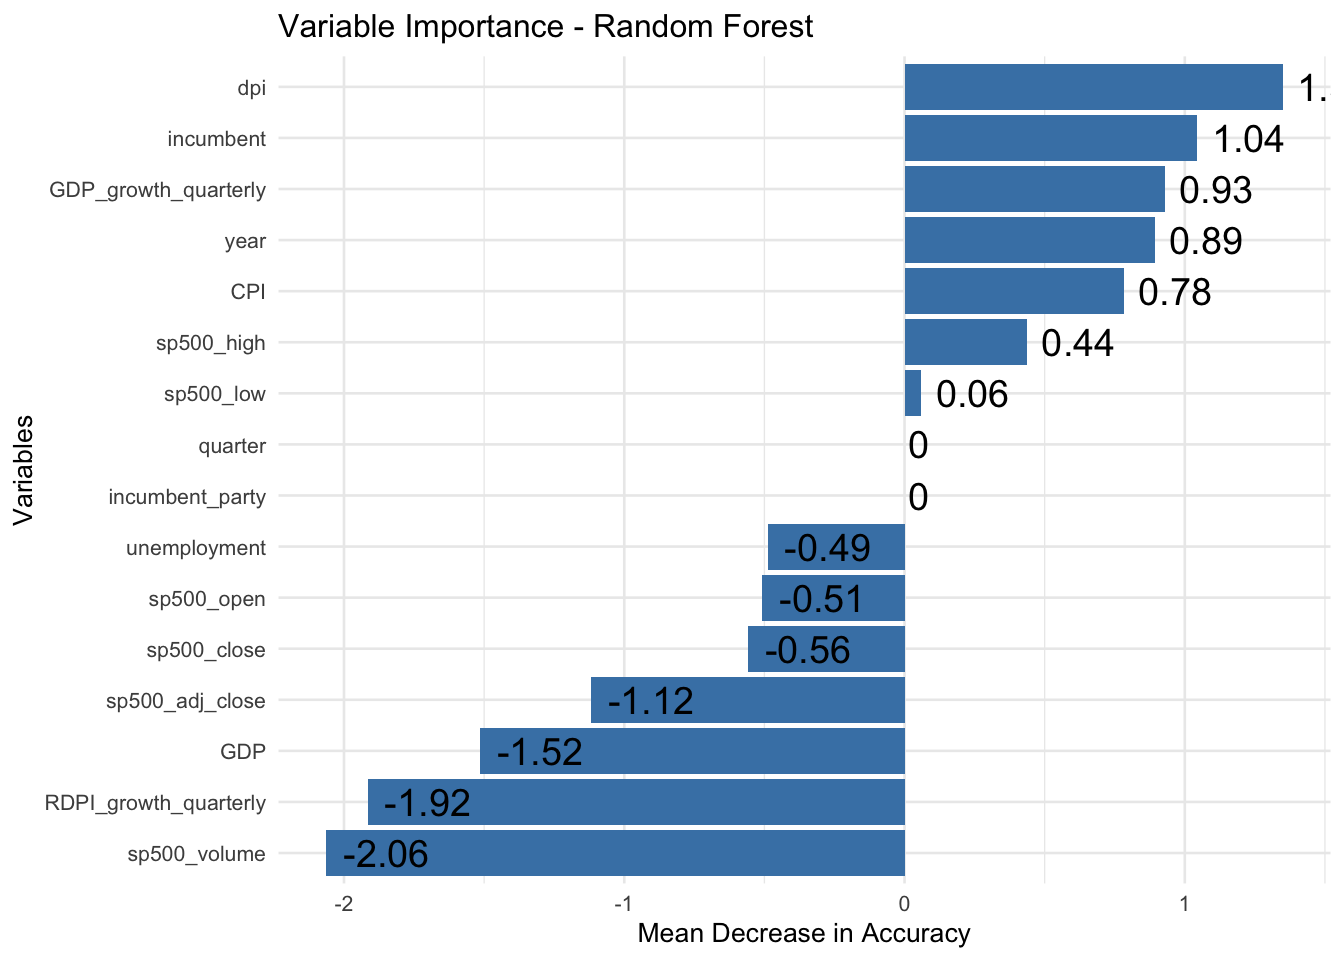
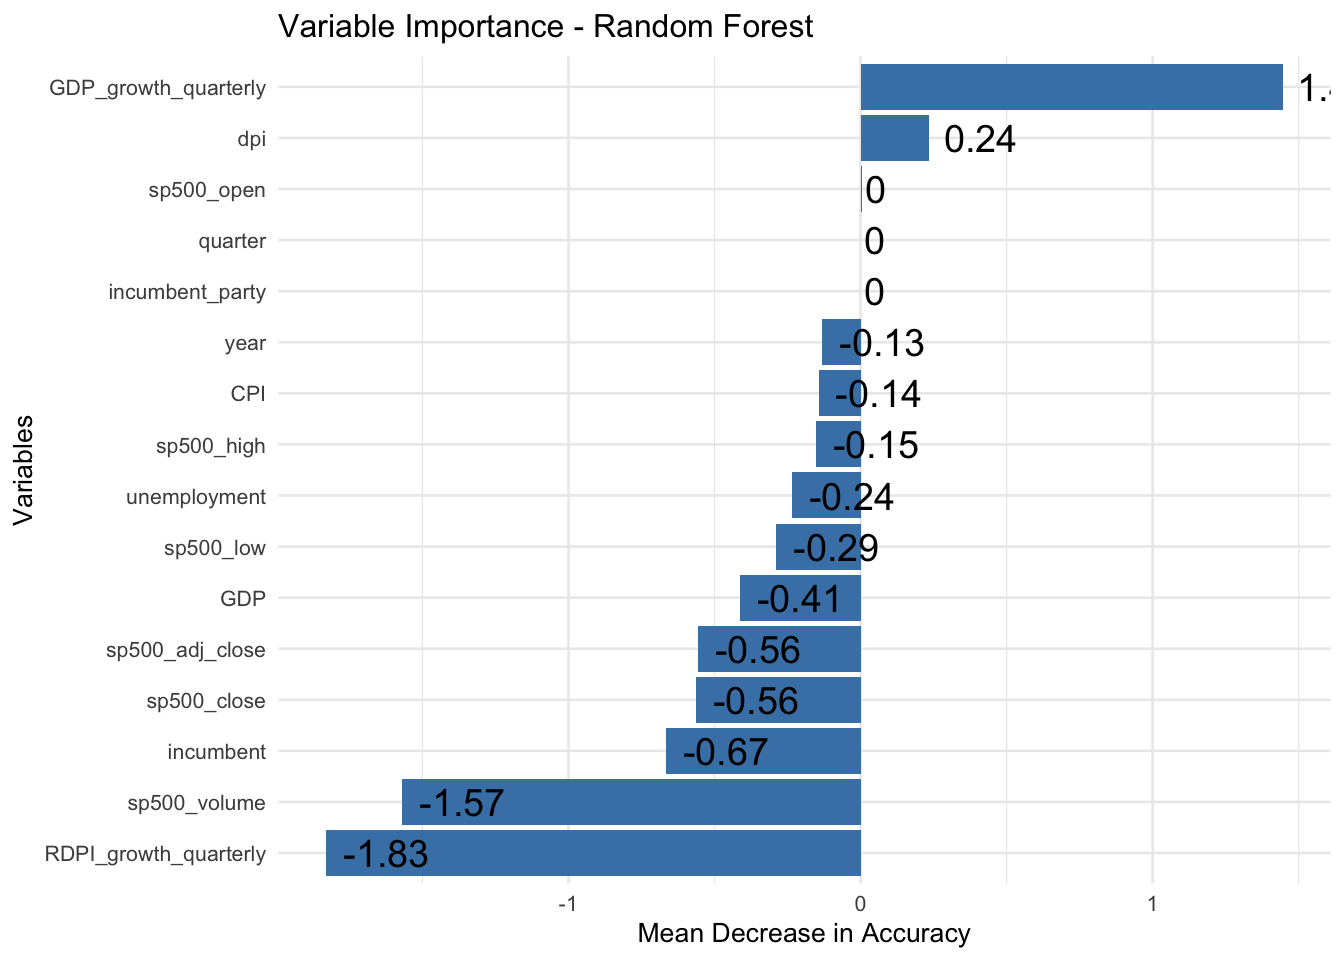
mathjax

diff --git a/public/post/2024/09/11/week-2/index.html b/public/post/2024/09/11/week-2/index.html
@@ -29,14 +29,14 @@
 <p>The code for this page can be found <a href="https://github.com/jeqcho/usa-2024-election-prediction/blob/main/content/post/2024-09-11-week-2/index.Rmd">here</a>.</p>
 <p>One measure of the economy is the GDP growth. But do voters care more about the short-term GDP growth in the months leading up to the election, or do they judge the candidate based on the GDP growth <strong>throughout</strong> their term? We first investigate the Q2 GDP growth, which is by how much did the GDP grow in the second quarter (April, May, June) in the year of the election.</p>
 <img src="/usa-2024-election-prediction/post/2024/09/11/week-2/index_files/figure-html/unnamed-chunk-2-1.png" width="672" />
-<p>In our best-fit lines above, we have removed 2020 as an outlier. The plot shows that there is a strong positive correlation between second quarter GDP growth and the incumbent&rsquo;s party vote share, particularly so when the candidate is also incumbent! This is fair, since the voters might not judge a new non-incumbent candidate with the current economy. Another interesting feature is that the best-fit line almost cross the center of 50% vote share for 0% growth. This suggests that the voters only reward the incumbent with more votes if the economy grows, and punishes when not, with no established baseline that the president is expected to perform. Let&rsquo;s look at the <code>\(R^2\)</code> to get an idea of how powerful is the prediction. Here&rsquo;s the <code>\(R^2\)</code> for non-incumbent candidates.</p>
+<p>In our best-fit lines above, we have removed 2020 as an outlier. The plot shows that there is a strong positive correlation between second quarter GDP growth and the incumbent&rsquo;s party vote share, particularly so when the candidate is also incumbent! This is fair, since the voters might not judge a new non-incumbent candidate with the current economy. Another interesting feature is that the best-fit line almost cross the center of 50% vote share for 0% growth. This suggests that the voters only reward the incumbent with more votes if the economy grows, and punishes when not, with no established baseline that the president is expected to perform. Let&rsquo;s look at the \(R^2\) to get an idea of how powerful is the prediction. Here&rsquo;s the \(R^2\) for non-incumbent candidates.</p>
 <pre><code class="language-r">summary(lm(pv2p~GDP_growth_quarterly,
            data=(d_inc_econ|&gt;filter(incumbent==FALSE))
            ))$r.squared
 </code></pre>
 <pre><code>## [1] 0.1142466
 </code></pre>
-<p>Here&rsquo;s the <code>\(R^2\)</code> for incumbent candidates.</p>
+<p>Here&rsquo;s the \(R^2\) for incumbent candidates.</p>
 <pre><code class="language-r">summary(lm(pv2p~GDP_growth_quarterly,
            data=(d_inc_econ|&gt;filter(incumbent==TRUE, year!=2020))
            ))$r.squared
@@ -44,17 +44,15 @@
 <pre><code>## [1] 0.4373633
 </code></pre>
 <p>It turns out that second quarter GDP growth can explain up to 44% of the change in vote shares across time! Now, how about long term GDP growth? Instead of looking at the GDP growth during the election year, let&rsquo;s compare the GDP growth from the start of their term to the end of the term.</p>
-<pre><code>## `geom_smooth()` using formula = 'y ~ x'
-</code></pre>
 <img src="/usa-2024-election-prediction/post/2024/09/11/week-2/index_files/figure-html/unnamed-chunk-5-1.png" width="672" />
-<p>Here&rsquo;s the <code>\(R^2\)</code> for non-incumbents.</p>
+<p>Here&rsquo;s the \(R^2\) for non-incumbents.</p>
 <pre><code class="language-r">summary(lm(pv2p~GDP_growth_termly,
            data=(d_inc_econ|&gt;filter(incumbent==FALSE))
            ))$r.squared
 </code></pre>
 <pre><code>## [1] 0.01141712
 </code></pre>
-<p>Here&rsquo;s the <code>\(R^2\)</code> for incumbents.</p>
+<p>Here&rsquo;s the \(R^2\) for incumbents.</p>
 <pre><code class="language-r">summary(lm(pv2p~GDP_growth_termly,
            data=(d_inc_econ|&gt;filter(incumbent==TRUE, year!=2020))
            ))$r.squared
@@ -63,17 +61,15 @@
 </code></pre>
 <p>Interestingly, the effect on non-incumbent candidates essentially flattens out. Voters do not judge new candidates based on how well the economy performed over the years. For incumbent candidates, we still see a strong positive correlation, but the explanatory power decreases from 44 to 29. This suggests that the short-term national economy has more influence on elections that the long-term trajectory. Another interesting feature is that the best-fit line crosses the 50% mark when the GDP growth is 29.6%. This means that in contrast to the second-quarter GDP growth, the voters impose a baseline performance for the president to sustain the growth of the economy.</p>
 <p>How about other measures of the economy like unemployment rate? Here we took seasonally-adjusted unemployment rate for each state and see if the vote share of the incumbet party in each state changes in response to the unemployment rate.</p>
-<pre><code>## `geom_smooth()` using formula = 'y ~ x'
-</code></pre>
 <img src="/usa-2024-election-prediction/post/2024/09/11/week-2/index_files/figure-html/unnamed-chunk-8-1.png" width="672" />
-<p>Here&rsquo;s the <code>\(R^2\)</code> for non-incumbents.</p>
+<p>Here&rsquo;s the \(R^2\) for non-incumbents.</p>
 <pre><code class="language-r">summary(lm(pv2p~q2_unrate_growth,
            data=(d_unrate_enc|&gt;filter(incumbent==FALSE))
            ))$r.squared
 </code></pre>
 <pre><code>## [1] 0.003274093
 </code></pre>
-<p>Here&rsquo;s the <code>\(R^2\)</code> for incumbents.</p>
+<p>Here&rsquo;s the \(R^2\) for incumbents.</p>
 <pre><code class="language-r">summary(lm(pv2p~q2_unrate_growth,
            data=(d_unrate_enc|&gt;filter(incumbent==TRUE, year!=2020))
            ))$r.squared
@@ -84,12 +80,14 @@
 <p>Let&rsquo;s put all the economic indicators we have into a machine learning model and see which indicators are most effective in predicting the national vote share. We build a random forest model with 100 trees and look at the importance plot which shows how good each indicator is in predicting vote share.</p>
 <img src="/usa-2024-election-prediction/post/2024/09/11/week-2/index_files/figure-html/unnamed-chunk-15-1.png" width="672" />
 <p>The random forest confirms our hypothesis and crowns the second quarter GDP growth as the strongest economic predictor of the election, followed by the S&amp;P 500 open and the incumbency effect. Let&rsquo;s use these three predictors to predict the next election and check the leave-one-out cross-validation (LOO-CV) error.</p>
-<pre><code>## [1] &quot;LOO-CV Mean Squared Error:  26.0508651010266&quot;
+<pre><code>## [1] &quot;LOO-CV Mean Squared Error:  23.7289823344239&quot;
 </code></pre>
-<pre><code>## [1] &quot;LOO-CV Root Mean Squared Error:  5.10400481005128&quot;
+<pre><code>## [1] &quot;LOO-CV Root Mean Squared Error:  4.87124032813244&quot;
 </code></pre>
 <p>The RMS is 5.05 which can be interpreted as saying that the prediction is usually within 5% of the truth. Let&rsquo;s use this model to predict the current election.</p>
-<pre><code class="language-r">data2024 &lt;- d_fred|&gt;filter(year==2024,quarter==2)
+<pre><code class="language-r">set.seed(1347)
+
+data2024 &lt;- d_fred|&gt;filter(year==2024,quarter==2)
 data2024$incumbent &lt;- FALSE
 
 rf_model &lt;- randomForest(pv2p ~ GDP_growth_quarterly + sp500_open + incumbent, 
@@ -98,19 +96,19 @@ rf_model &lt;- randomForest(pv2p ~ GDP_growth_quarterly + sp500_open + incumbent
 predict(rf_model, data2024)
 </code></pre>
 <pre><code>##        1 
-## 49.53043
+## 49.83405
 </code></pre>
-<p>The model suggests a vote share of 49.5% for Kamala Harris using GDP growth rate, S&amp;P 500 and the fact of non-incumbency. It can be interesting to note that the economic indicators itself are on the fence in this election and not particularly strong. Even if an incumbent runs, the vote share is 50.6%.</p>
+<p>The model suggests a vote share of 49.8% for Kamala Harris using GDP growth rate, S&amp;P 500 and the fact of non-incumbency. It can be interesting to note that the economic indicators itself are on the fence in this election and not particularly strong. Even if an incumbent runs, the vote share is 50.7%.</p>
 <pre><code class="language-r">data2024 &lt;- d_fred|&gt;filter(year==2024,quarter==2)
 data2024$incumbent &lt;- TRUE
 
 rf_model &lt;- randomForest(pv2p ~ GDP_growth_quarterly + sp500_open + incumbent, 
-                           data = d_inc_econ, ntree = 100)
+                           data = d_inc_econ, ntree = 100,)
 
 predict(rf_model, data2024)
 </code></pre>
 <pre><code>##        1 
-## 50.36307
+## 50.71584
 </code></pre>
 <p>Since the economic indicators are not vocal, both Harris and Trump have no edge in terms of the economy.</p>
 

diff --git a/content/post/2024-09-11-week-2/index.md b/content/post/2024-09-11-week-2/index.md
@@ -16,7 +16,7 @@ One measure of the economy is the GDP growth. But do voters care more about the 
 
 <img src="{{< blogdown/postref >}}index_files/figure-html/unnamed-chunk-2-1.png" width="672" />
 
-In our best-fit lines above, we have removed 2020 as an outlier. The plot shows that there is a strong positive correlation between second quarter GDP growth and the incumbent's party vote share, particularly so when the candidate is also incumbent! This is fair, since the voters might not judge a new non-incumbent candidate with the current economy. Another interesting feature is that the best-fit line almost cross the center of 50% vote share for 0% growth. This suggests that the voters only reward the incumbent with more votes if the economy grows, and punishes when not, with no established baseline that the president is expected to perform. Let's look at the `\(R^2\)` to get an idea of how powerful is the prediction. Here's the `\(R^2\)` for non-incumbent candidates.
+In our best-fit lines above, we have removed 2020 as an outlier. The plot shows that there is a strong positive correlation between second quarter GDP growth and the incumbent's party vote share, particularly so when the candidate is also incumbent! This is fair, since the voters might not judge a new non-incumbent candidate with the current economy. Another interesting feature is that the best-fit line almost cross the center of 50% vote share for 0% growth. This suggests that the voters only reward the incumbent with more votes if the economy grows, and punishes when not, with no established baseline that the president is expected to perform. Let's look at the \(R^2\) to get an idea of how powerful is the prediction. Here's the \(R^2\) for non-incumbent candidates.
 
 
 ``` r
@@ -30,7 +30,7 @@ summary(lm(pv2p~GDP_growth_quarterly,
 ```
 
 
-Here's the `\(R^2\)` for incumbent candidates.
+Here's the \(R^2\) for incumbent candidates.
 
 
 ``` r
@@ -46,14 +46,9 @@ summary(lm(pv2p~GDP_growth_quarterly,
 It turns out that second quarter GDP growth can explain up to 44% of the change in vote shares across time! Now, how about long term GDP growth? Instead of looking at the GDP growth during the election year, let's compare the GDP growth from the start of their term to the end of the term.
 
 
-
-```
-## `geom_smooth()` using formula = 'y ~ x'
-```
-
 <img src="{{< blogdown/postref >}}index_files/figure-html/unnamed-chunk-5-1.png" width="672" />
 
-Here's the `\(R^2\)` for non-incumbents.
+Here's the \(R^2\) for non-incumbents.
 
 ``` r
 summary(lm(pv2p~GDP_growth_termly,
@@ -65,7 +60,7 @@ summary(lm(pv2p~GDP_growth_termly,
 ## [1] 0.01141712
 ```
 
-Here's the `\(R^2\)` for incumbents.
+Here's the \(R^2\) for incumbents.
 
 ``` r
 summary(lm(pv2p~GDP_growth_termly,
@@ -81,14 +76,9 @@ Interestingly, the effect on non-incumbent candidates essentially flattens out. 
 
 How about other measures of the economy like unemployment rate? Here we took seasonally-adjusted unemployment rate for each state and see if the vote share of the incumbet party in each state changes in response to the unemployment rate.
 
-
-```
-## `geom_smooth()` using formula = 'y ~ x'
-```
-
 <img src="{{< blogdown/postref >}}index_files/figure-html/unnamed-chunk-8-1.png" width="672" />
 
-Here's the `\(R^2\)` for non-incumbents.
+Here's the \(R^2\) for non-incumbents.
 
 ``` r
 summary(lm(pv2p~q2_unrate_growth,
@@ -100,7 +90,7 @@ summary(lm(pv2p~q2_unrate_growth,
 ## [1] 0.003274093
 ```
 
-Here's the `\(R^2\)` for incumbents.
+Here's the \(R^2\) for incumbents.
 
 ``` r
 summary(lm(pv2p~q2_unrate_growth,
@@ -128,17 +118,19 @@ The random forest confirms our hypothesis and crowns the second quarter GDP grow
 
 
 ```
-## [1] "LOO-CV Mean Squared Error:  26.0508651010266"
+## [1] "LOO-CV Mean Squared Error:  23.7289823344239"
 ```
 
 ```
-## [1] "LOO-CV Root Mean Squared Error:  5.10400481005128"
+## [1] "LOO-CV Root Mean Squared Error:  4.87124032813244"
 ```
 
 The RMS is 5.05 which can be interpreted as saying that the prediction is usually within 5% of the truth. Let's use this model to predict the current election.
 
 
 ``` r
+set.seed(1347)
+
 data2024 <- d_fred|>filter(year==2024,quarter==2)
 data2024$incumbent <- FALSE
 
@@ -150,10 +142,10 @@ predict(rf_model, data2024)
 
 ```
 ##        1 
-## 49.53043
+## 49.83405
 ```
 
-The model suggests a vote share of 49.5% for Kamala Harris using GDP growth rate, S&P 500 and the fact of non-incumbency. It can be interesting to note that the economic indicators itself are on the fence in this election and not particularly strong. Even if an incumbent runs, the vote share is 50.6%.
+The model suggests a vote share of 49.8% for Kamala Harris using GDP growth rate, S&P 500 and the fact of non-incumbency. It can be interesting to note that the economic indicators itself are on the fence in this election and not particularly strong. Even if an incumbent runs, the vote share is 50.7%.
 
 
 ``` r
@@ -161,14 +153,14 @@ data2024 <- d_fred|>filter(year==2024,quarter==2)
 data2024$incumbent <- TRUE
 
 rf_model <- randomForest(pv2p ~ GDP_growth_quarterly + sp500_open + incumbent, 
-                           data = d_inc_econ, ntree = 100)
+                           data = d_inc_econ, ntree = 100,)
 
 predict(rf_model, data2024)
 ```
 
 ```
 ##        1 
-## 50.36307
+## 50.71584
 ```
 
 Since the economic indicators are not vocal, both Harris and Trump have no edge in terms of the economy.
